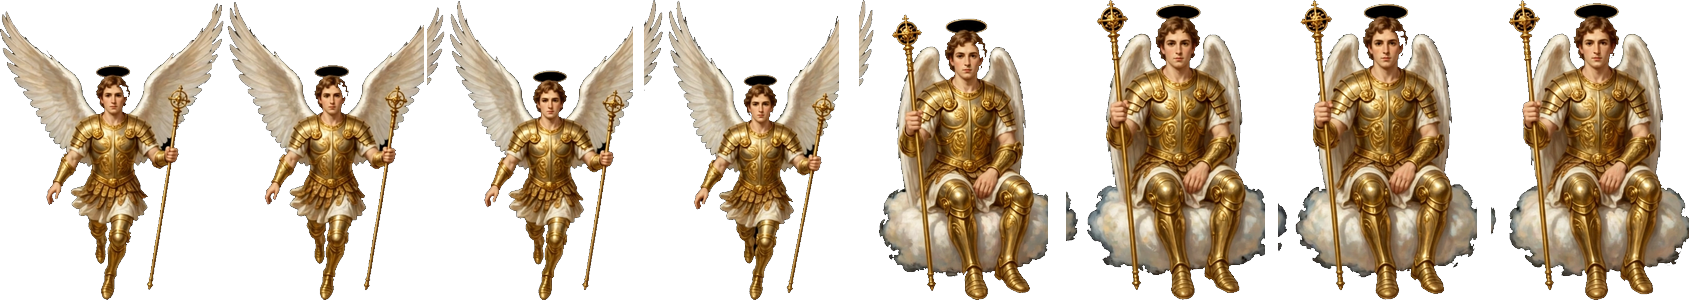
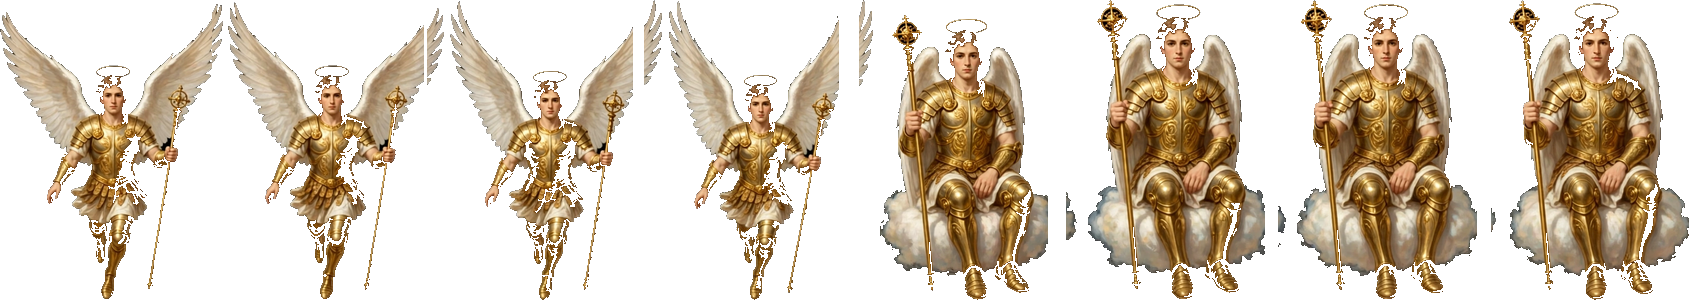
fix: tẩy nền đen còn sót trong 3 dải fly (ngưỡng flood 64) + thêm cờ ?seated=1 để chụp demo trạng thái ngồi yên

diff --git a/live/overlay.html b/live/overlay.html
@@ -285,7 +285,7 @@ function frame(now){
     const fly = tc.fly && A[tc.fly]?.naturalWidth ? A[tc.fly] : null;
     const el = t - LOAD_T - ti*0.4; // staggered descent from the sky on load
     let ty = tc.y;
-    if (fly && el < 2.4){ const pr = Math.max(0, el/2.4), fr = Math.min(7, Math.floor(pr*8)), ease = 1 - Math.pow(1-pr, 2);
+    if (fly && el < 2.4 && !SEATED){ const pr = Math.max(0, el/2.4), fr = Math.min(7, Math.floor(pr*8)), ease = 1 - Math.pow(1-pr, 2);
       ty = tc.y - (1-ease)*700;
       ctx.drawImage(fly, fr*212, 0, 212, 300, tc.x-212*tc.s/2, ty+bob-300*tc.s, 212*tc.s, 300*tc.s); }
     else if (idle){ const fw=220, fh=260, fr=Math.floor(t*1.2+ti*1.3)%4; ctx.drawImage(idle, fr*fw, 0, fw, fh, tc.x-fw*tc.s/2, tc.y+bob-fh*tc.s, fw*tc.s, fh*tc.s); }
@@ -337,6 +337,7 @@ const w=c.measureText(s).width+60,x=540-w/2,y=322;c.fillStyle='rgba(40,16,6,.88)
 c.lineWidth=2;c.strokeStyle='rgba(226,176,79,.9)';c.stroke();c.fillStyle='#ffd98a';c.textAlign='center';c.textBaseline='middle';c.fillText(s,540,y+28);c.restore();}
 const _k='frame',_o=window[_k];window[_k]=function(t){_o(t);try{_g(t);}catch(e){}};})();
 let LOAD_T = null; // RAF clock, not Date.now: RAF time starts near 0 on load
+const SEATED = new URLSearchParams(location.search).has('seated'); // demo flag: skip descent, show seated front view
 layout(24); requestAnimationFrame(frame);
 </script>
 </body>
